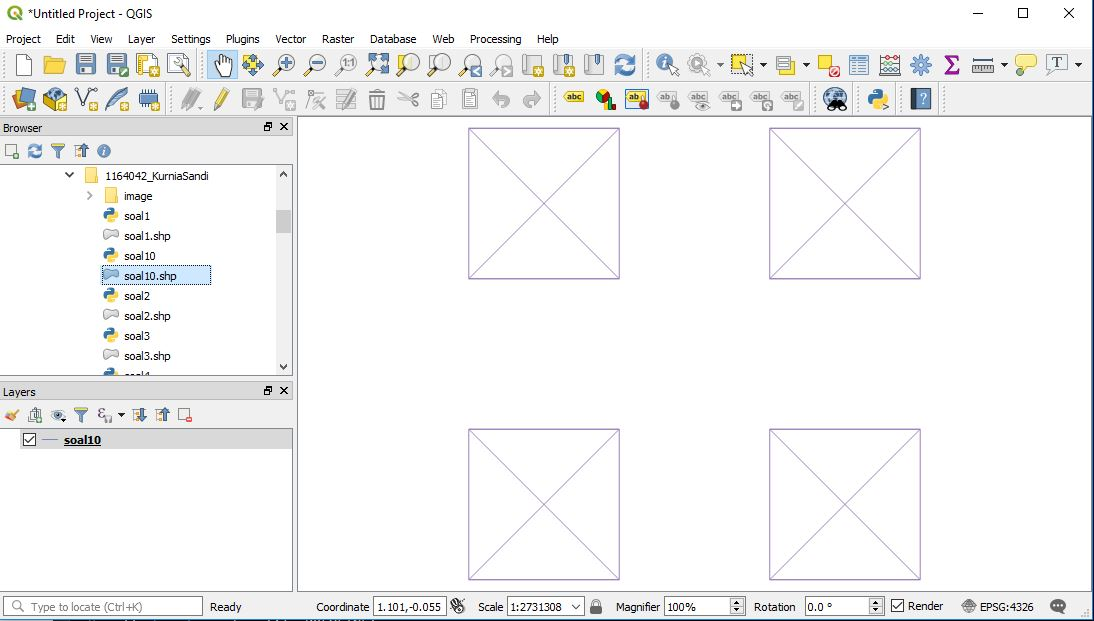
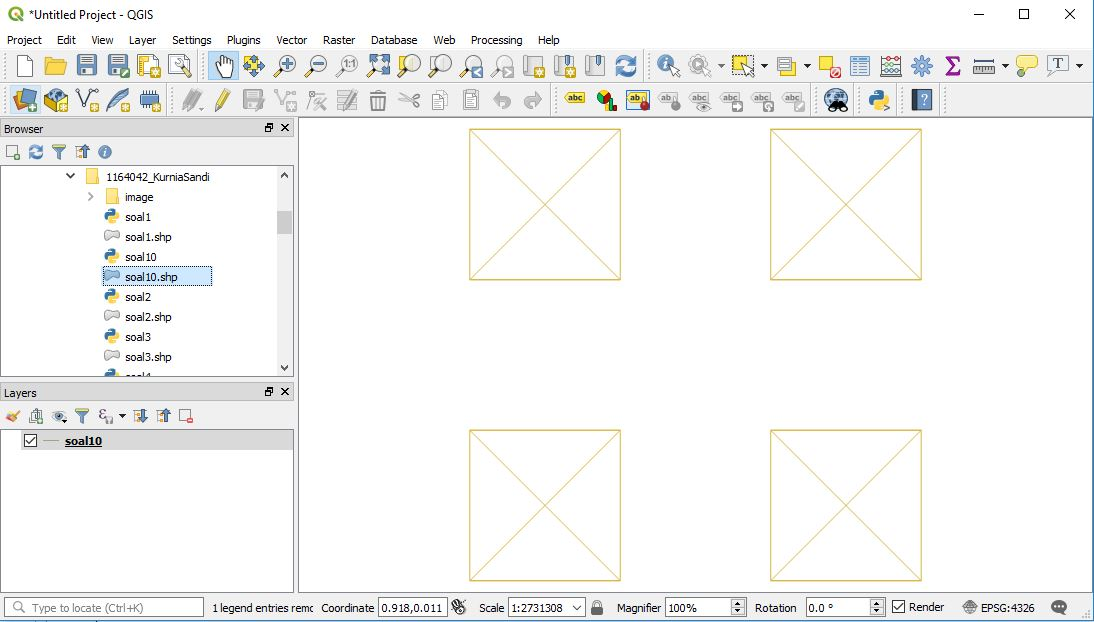
final update

diff --git a/1164042_KurniaSandi/soal10.py b/1164042_KurniaSandi/soal10.py
@@ -10,52 +10,53 @@ w.record("crot","dua")					#membuat record dengan parameter crot dan dua
 w.record("cret","tiga")					#membuat record dengan parameter cret dan tiga
 w.record("crut","empat")				#membuat record dengan parameter crut dan empat
 
+
 w.poly(parts=[[
-	[1,3],
-	[2,3], 
-	[2,2],
-	[1,2],
-	[1,3],
-	[2,2],
-	[1,2],
 	[2,3],
-	[1,3]
+	[3,3], 
+	[3,2],
+	[2,2],
+	[2,3],
+	[3,2],
+	[2,2],
+	[3,3],
+	[2,3]
 ]],shapeType=shapefile.POLYLINE)		#membuat polygon dengan 9 koordinat dengan type polyline
 
 w.poly(parts=[[
-	[3,3],
-	[4,3], 
-	[4,2],
-	[3,2],
-	[3,3],
-	[4,2],
-	[3,2],
 	[4,3],
-	[3,3]
+	[5,3], 
+	[5,2],
+	[4,2],
+	[4,3],
+	[5,2],
+	[4,2],
+	[5,3],
+	[4,3]
 ]],shapeType=shapefile.POLYLINE)		#membuat polygon dengan 9 koordinat dengan type polyline
 
 w.poly(parts=[[
-	[1,1],
-	[2,1], 
-	[2,0],
-	[1,0],
-	[1,1],
-	[2,0],
-	[1,0],
 	[2,1],
-	[1,1]
+	[3,1], 
+	[3,0],
+	[2,0],
+	[2,1],
+	[3,0],
+	[2,0],
+	[3,1],
+	[2,1]
 ]],shapeType=shapefile.POLYLINE)		#membuat polygon dengan 9 koordinat dengan type polyline
 
 w.poly(parts=[[
-	[3,1],
-	[4,1], 
-	[4,0],
-	[3,0],
-	[3,1],
-	[4,0],
-	[3,0],
 	[4,1],
-	[3,1]
+	[5,1], 
+	[5,0],
+	[4,0],
+	[4,1],
+	[5,0],
+	[4,0],
+	[5,1],
+	[4,1]
 ]],shapeType=shapefile.POLYLINE)		#membuat polygon dengan 9 koordinat dengan type polyline
 
 w.save("soal10")						#menyimpan file shape dengan nama soal 10
